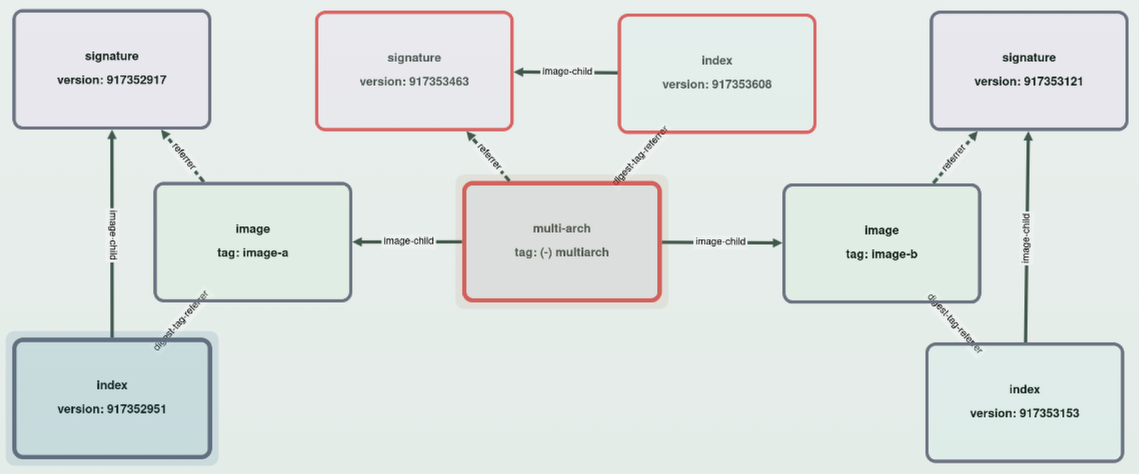
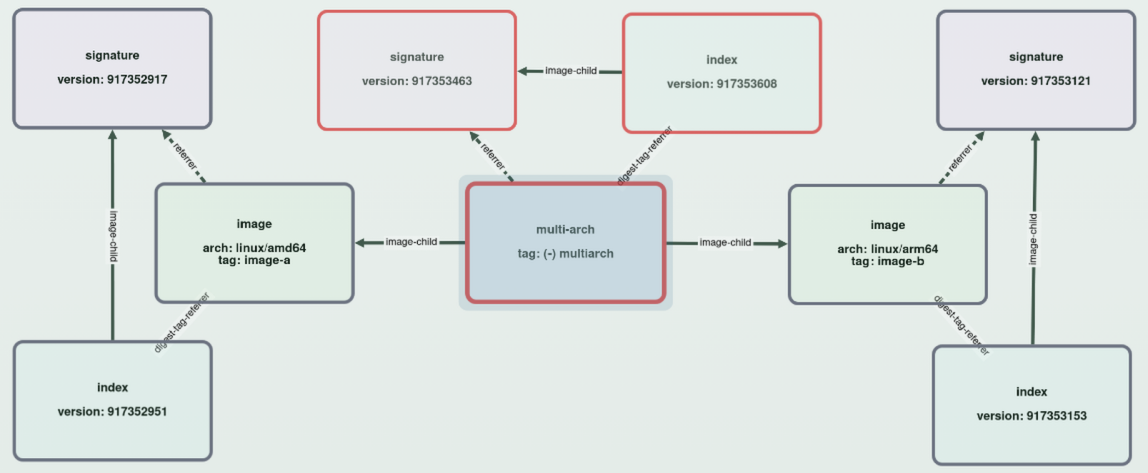
Fix visualizer compare metadata base scan

diff --git a/visualizer/tests/_graph-repository.test.ts b/visualizer/tests/_graph-repository.test.ts
@@ -241,6 +241,73 @@ test("graph repository returns removed manifests from compare mode details", () 
   }
 });
 
+test("graph repository compare mode prefers older-scan metadata for unchanged manifests", () => {
+  const directory = mkdtempSync(join(tmpdir(), "ghcr-visualizer-"));
+  const databasePath = join(directory, "scan.sqlite");
+  const database = new Database(databasePath);
+  _initializeSchema(database);
+  const olderScanId = _insertScan(database, "scan-uuid-older-platform", "2026-05-29T10:00:00.000Z");
+  const newerScanId = _insertScan(database, "scan-uuid-newer-platform", "2026-05-30T10:00:00.000Z");
+
+  _insertPackageVersion(database, olderScanId, 1, "2026-05-29T10:00:00.000Z");
+  _insertPackageVersion(database, olderScanId, 2, "2026-05-29T10:00:00.000Z");
+  _insertTag(database, olderScanId, "single", 1);
+  _insertManifest(
+    database,
+    olderScanId,
+    1,
+    "sha256:center",
+    "application/vnd.oci.image.index.v1+json",
+    "multi_arch_manifest"
+  );
+  _insertManifest(
+    database,
+    olderScanId,
+    2,
+    "sha256:shared",
+    "application/vnd.oci.image.manifest.v1+json",
+    "image_manifest"
+  );
+  _insertPayload(database, olderScanId, "sha256:center", { kind: "center", scan: "older" });
+  _insertPayload(database, olderScanId, "sha256:shared", { kind: "shared", scan: "older" });
+  _insertEdge(database, olderScanId, "sha256:center", "sha256:shared", "image-child");
+  _insertDescriptor(database, olderScanId, "sha256:center", "sha256:shared", "linux", "amd64");
+
+  _insertPackageVersion(database, newerScanId, 1, "2026-05-30T10:00:00.000Z");
+  _insertPackageVersion(database, newerScanId, 2, "2026-05-30T10:00:00.000Z");
+  _insertTag(database, newerScanId, "single", 1);
+  _insertManifest(
+    database,
+    newerScanId,
+    1,
+    "sha256:center",
+    "application/vnd.oci.image.index.v1+json",
+    "multi_arch_manifest"
+  );
+  _insertManifest(
+    database,
+    newerScanId,
+    2,
+    "sha256:shared",
+    "application/vnd.oci.image.manifest.v1+json",
+    "image_manifest"
+  );
+  _insertPayload(database, newerScanId, "sha256:center", { kind: "center", scan: "newer" });
+  _insertPayload(database, newerScanId, "sha256:shared", { kind: "shared", scan: "newer" });
+
+  const repository = new GraphRepository(database);
+  try {
+    const manifest = repository.getManifest("acme", "demo", newerScanId, olderScanId, "sha256:shared");
+    assert.equal(manifest.changeStatus, "unchanged");
+    assert.equal(manifest.displayPlatform, "linux/amd64");
+    assert.equal(manifest.rawJson, JSON.stringify({ kind: "shared", scan: "older" }));
+    assert.equal(manifest.createdAt, "2026-05-29T10:00:00.000Z");
+  } finally {
+    database.close();
+    rmSync(directory, { recursive: true, force: true });
+  }
+});
+
 function _insertScan(database: Database.Database, scanUuid: string, completedAt: string): number {
   return Number(
     database

diff --git a/visualizer/src/_graph-repository.ts b/visualizer/src/_graph-repository.ts
@@ -409,6 +409,7 @@ export class GraphRepository {
     newerScanId: number,
     olderScanId: number | undefined
   ): Map<string, ManifestDetails> {
+    const preferredManifestScanId = olderScanId ?? newerScanId;
     const scanInClause = placeholders(scanIds.length);
     const inClause = placeholders(digests.length);
     const payloadColumn = includePayload ? "payload.raw_json" : "NULL";
@@ -469,7 +470,7 @@ export class GraphRepository {
     `;
     const rows = this.#database
       .prepare(sql)
-      .all(...scanIds, ...digests, ...scanIds, ...digests, newerScanId) as _ManifestRow[];
+      .all(...scanIds, ...digests, ...scanIds, ...digests, preferredManifestScanId) as _ManifestRow[];
     const manifests = new Map<string, ManifestDetails>();
     const scanMemberships = new Map<string, Set<number>>();
     const tagsByDigest = new Map<string, Map<string, Set<number>>>();
@@ -483,7 +484,7 @@ export class GraphRepository {
       scanMembership.add(row.scan_id);
 
       let manifest = manifests.get(row.digest);
-      if (!manifest || row.scan_id === newerScanId) {
+      if (!manifest || row.scan_id === preferredManifestScanId) {
         manifest = {
           id: row.digest,
           digest: row.digest,

diff --git a/docs/implementation-notes.md b/docs/implementation-notes.md
@@ -32,6 +32,7 @@ Previous handoff material was archived to
   - fix small prose issues in the workflow-to-visualizer doc
 - [x] Align release docs and workflow with the planned `v1.0.0` tag style.
 - [x] Add the `v1.0.0` changelog entry covering all changes since `0.9.10`.
+- [x] Fix visualizer compare mode so manifest details prefer older/base scan metadata instead of newer-scan metadata.
 
 ## Current Next Plan
 